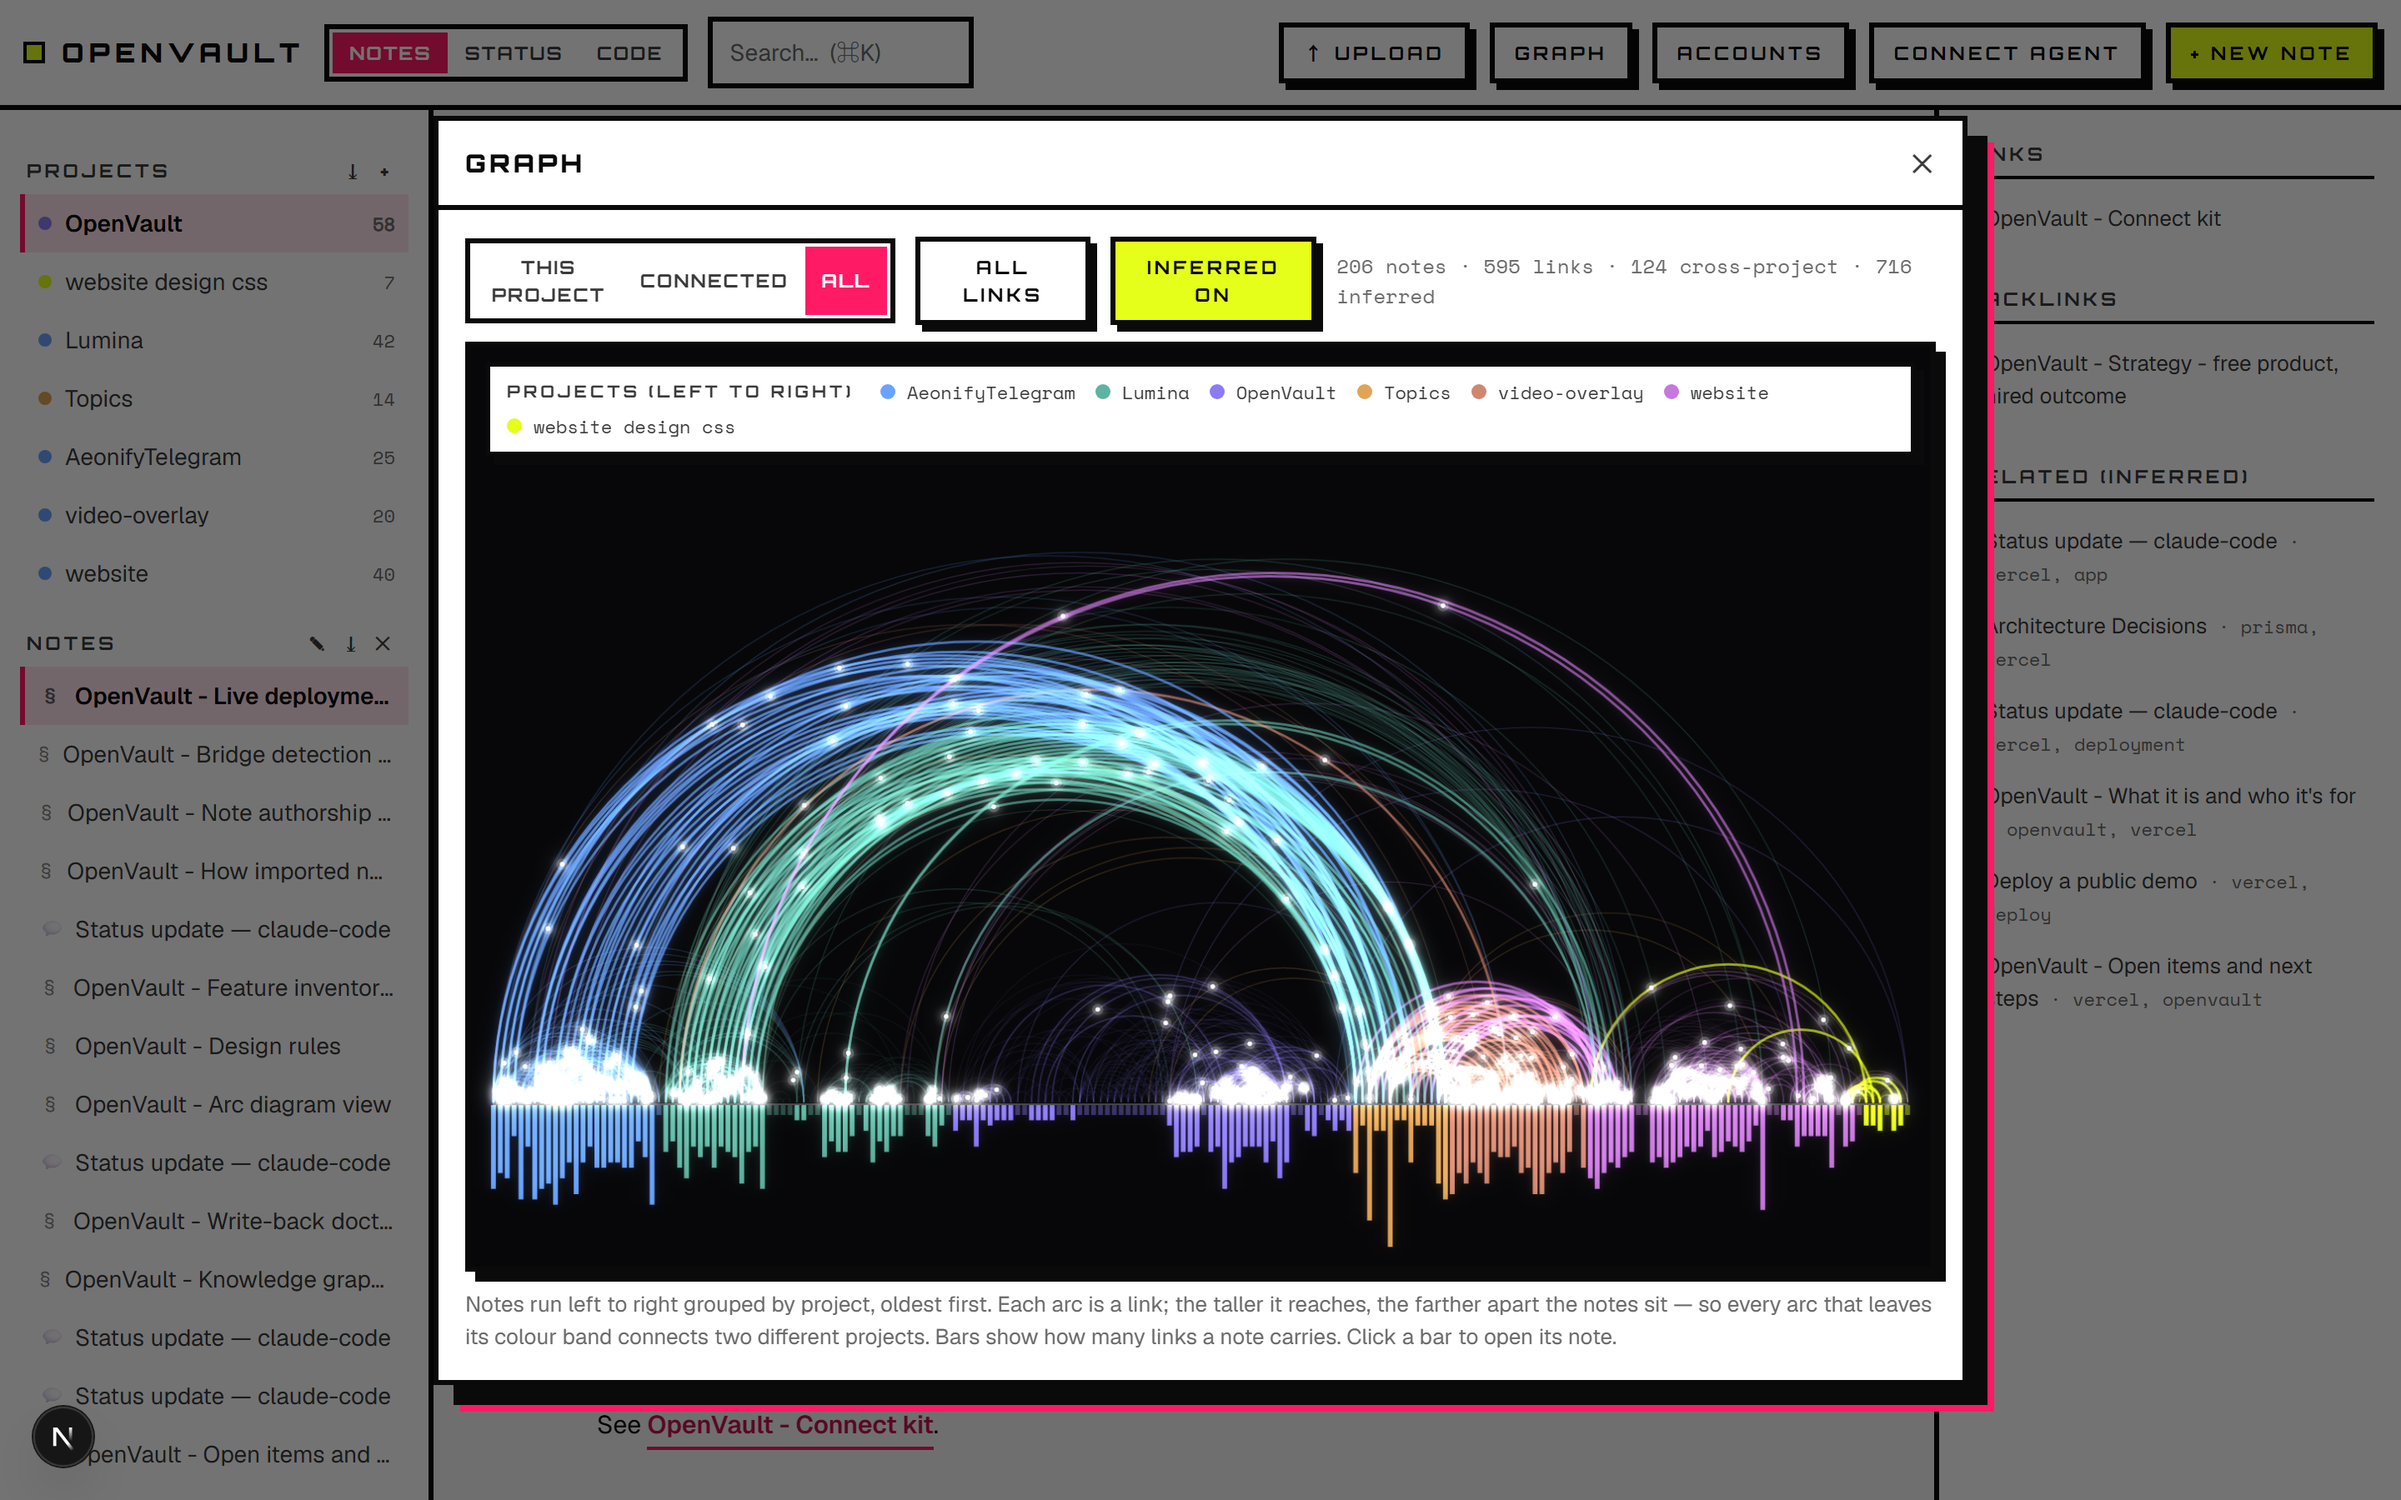
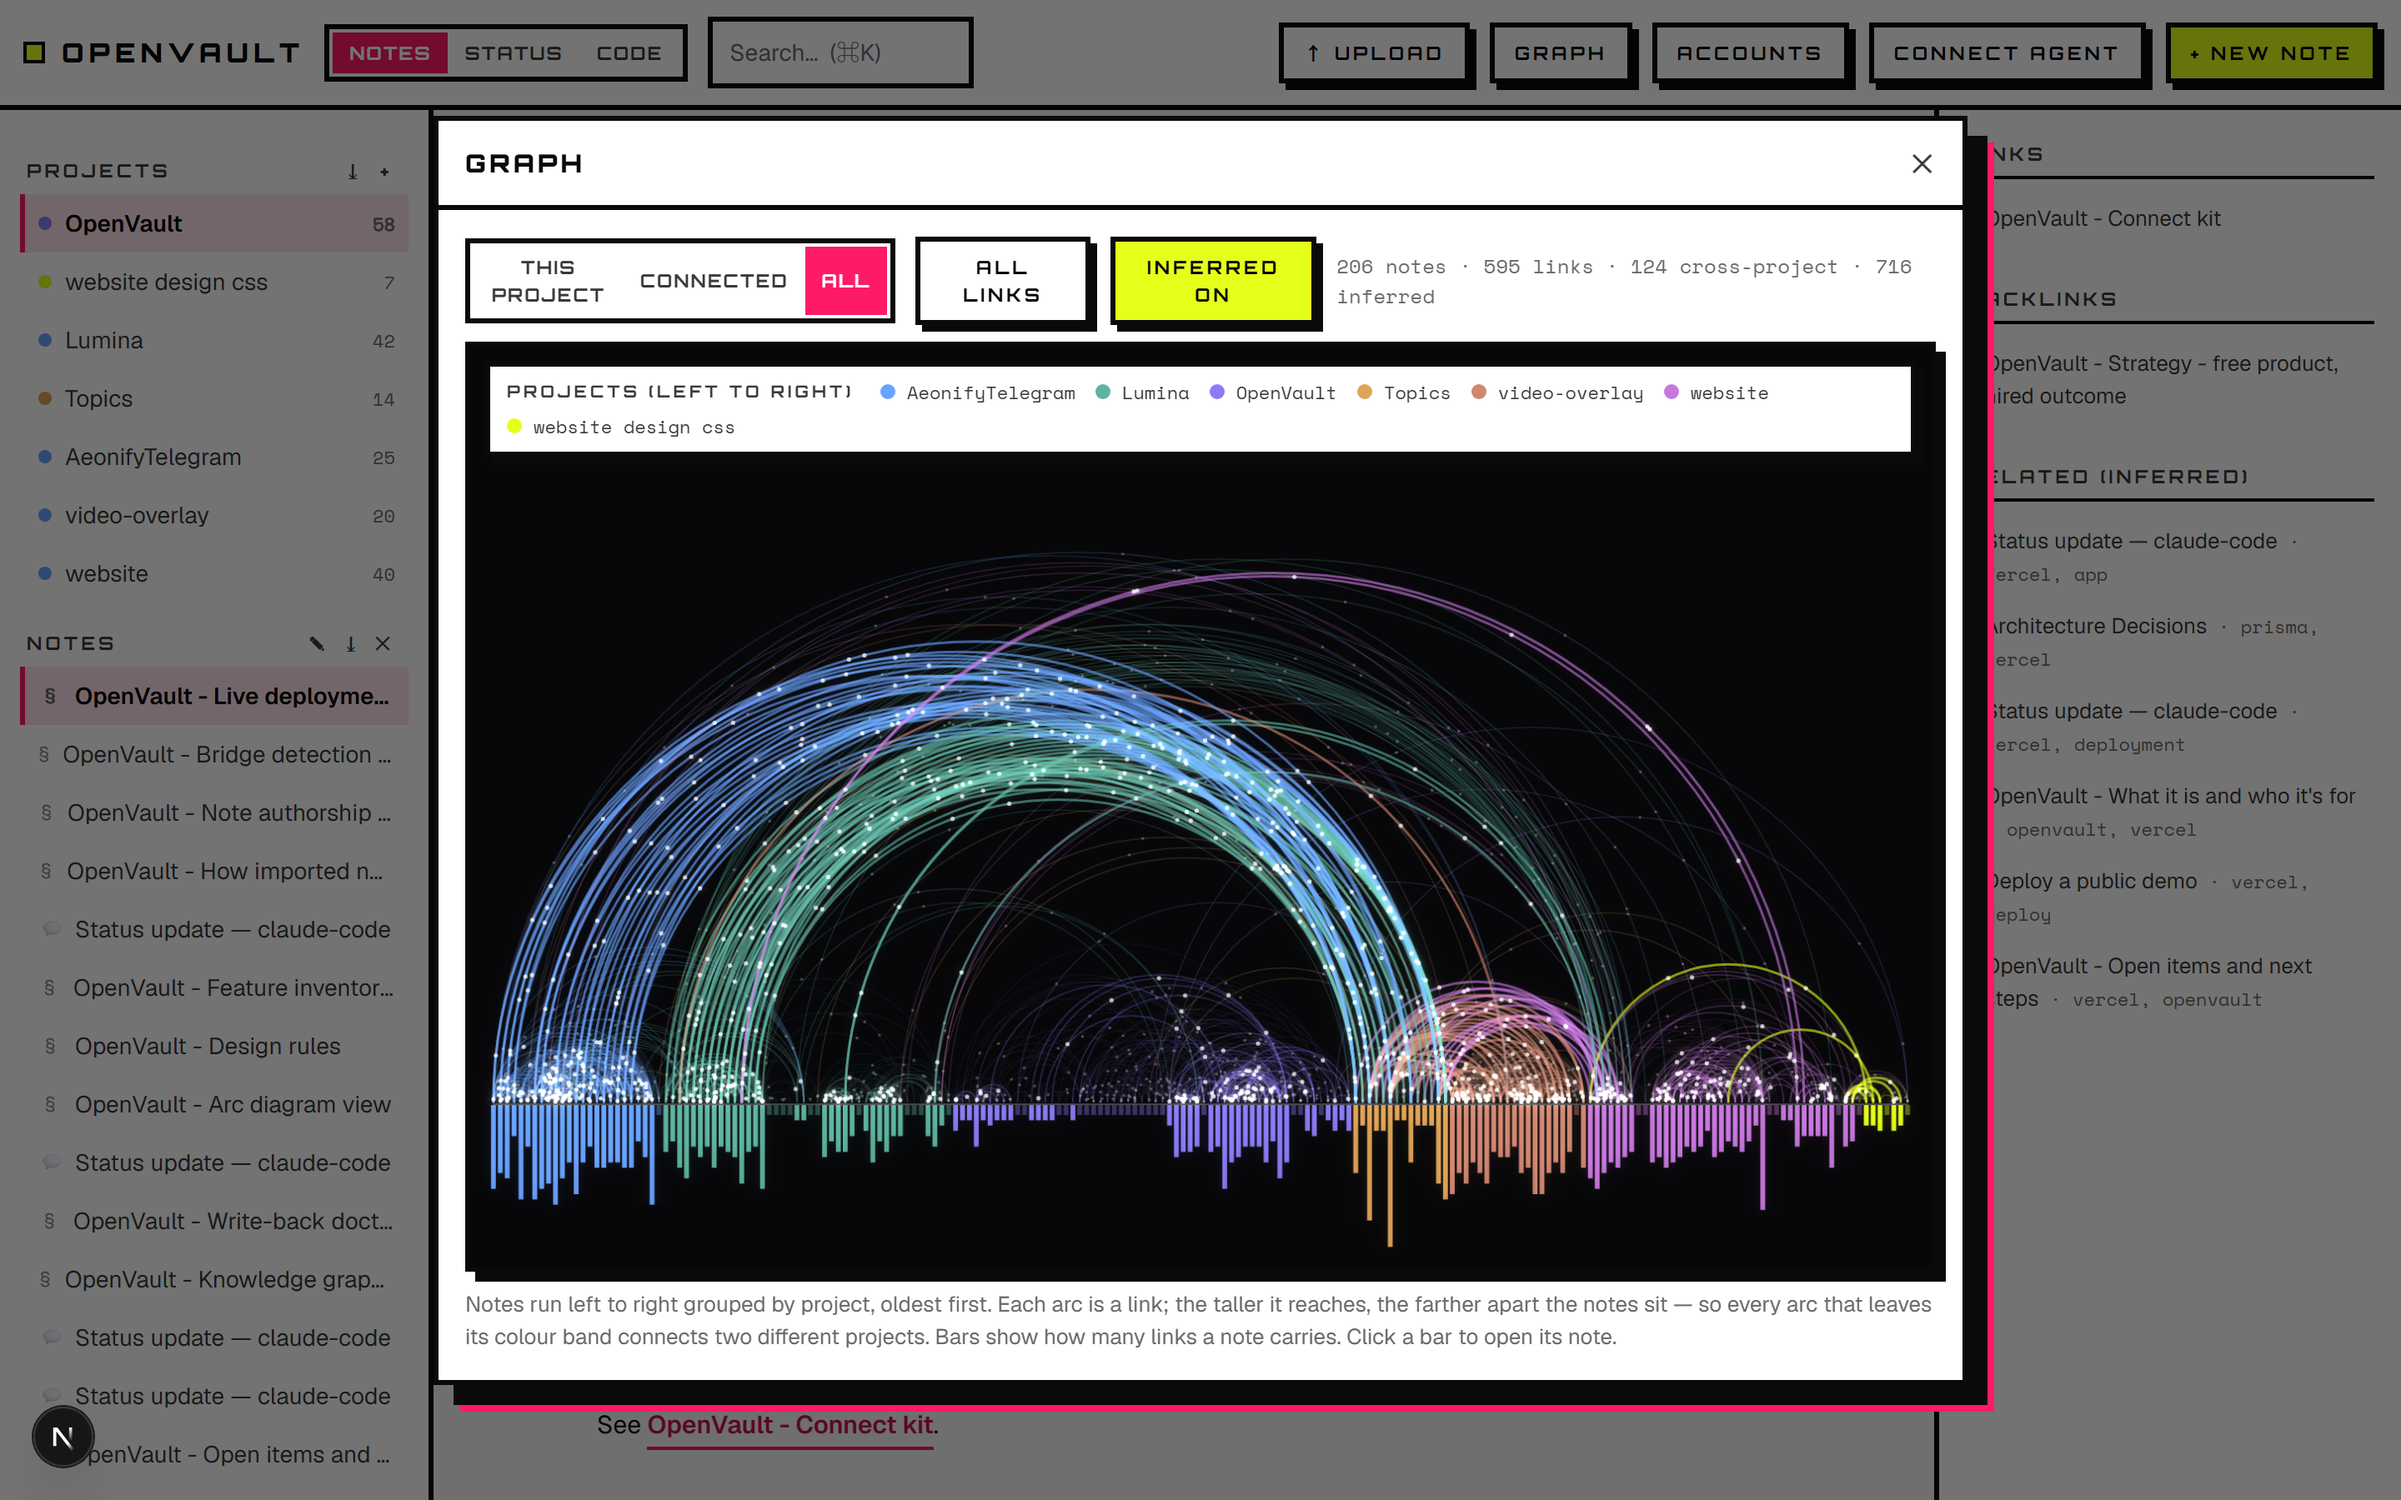
Arc view: calmer glow, denser two-way traffic, and packets on weak links too
The bloom was doing too much of the talking. Arc glow drops to 0.42 alpha at
1.8x width, the composite passes fall to 0.34 and 0.20, and the dots lose
their mid halo entirely -- one crisp 1.3px core, with the bloom pass supplying
all the softness. The filaments read as lit wire now instead of haze.

Dots are spaced along each arc rather than one per link, so a long cross-
project sweep carries a stream and a short hop carries a single packet:
uniform visual density instead of uniform count. Direction alternates per dot,
which buys two-way traffic without doubling the dot count. A link between two
notes is not one-way -- each end cites the other -- and a single direction read
as a conveyor belt rather than a conversation.

Inferred links carry traffic now as well, deliberately weaker in every
dimension: sparser spacing, a lower cap, 40% brightness, a smaller core, a
slower clock, and no halo at all. "These two notes share vocabulary" is a
weaker claim than "this note cites that one", and the animation should say so
rather than flattening the two into one channel. Withholding the halo is also
what keeps ~700 extra arcs from costing a second glow pass.

Measured rather than assumed, since 1,311 animated arcs is real per-frame fill
work: 54fps on the full vault at "All" scope, in headless Chrome with
--disable-gpu, so software rasterisation. Hardware will do better.

Changed region(s): [[0.1875, 0.4356, 0.8125, 0.7467]]

diff --git a/src/components/ArcView.tsx b/src/components/ArcView.tsx
@@ -195,10 +195,15 @@ export default function ArcView({
   // arcs are drawn as the upper half of an ellipse, so the parameter is an
   // angle from PI to 2PI; travelling source-to-target means running it
   // backwards when the source sits to the right of the target.
-  const pointOn = (a: Arc, u: number, baseY: number, squash: number) => {
+  // `back` sends the packet the other way down the same wire. Traffic runs in
+  // both directions because a link between two notes is not one-way — each end
+  // cites the other — and a single direction read as a conveyor belt rather
+  // than a conversation.
+  const pointOn = (a: Arc, u: number, baseY: number, squash: number, back: boolean) => {
     const cx = (a.x1 + a.x2) / 2;
     const rx = a.span / 2;
-    const forward = a.x1 <= a.x2 ? u : 1 - u;
+    const along = back ? 1 - u : u;
+    const forward = a.x1 <= a.x2 ? along : 1 - along;
     const ang = Math.PI + forward * Math.PI;
     return { x: cx + rx * Math.cos(ang), y: baseY + rx * squash * Math.sin(ang) };
   };
@@ -261,7 +266,7 @@ export default function ArcView({
       ctx.lineCap = "round";
 
       // Pass 1 — geometry, drawn into both the crisp layer and the glow buffer.
-      const dots: Array<{ x: number; y: number; hot: number }> = [];
+      const dots: Array<{ x: number; y: number; hot: number; weak: boolean }> = [];
       sc.arcs.forEach((e, i) => {
         const rx = e.span / 2;
         if (rx < 0.5) return;
@@ -294,18 +299,31 @@ export default function ArcView({
         if (gctx && e.kind === "explicit") {
           // Fatter and brighter in the glow buffer: the blur is what turns
           // this into diffusion rather than a second, thicker line.
-          gctx.strokeStyle = `rgba(${r},${g},${b},${Math.min(1, alpha * 0.8 * lit)})`;
-          gctx.lineWidth = width * (focus ? 3.6 : 2.6);
+          gctx.strokeStyle = `rgba(${r},${g},${b},${Math.min(1, alpha * 0.42 * lit)})`;
+          gctx.lineWidth = width * (focus ? 2.4 : 1.8);
           arcPath(gctx);
         }
 
         // The travelling dot: a note handing something to the note it links to.
         // Inferred arcs stay quiet — they are a suggestion, not traffic — and
         // staggering by the golden ratio keeps the dots from marching in step.
-        if (still || e.kind === "inferred") return;
-        const u = (now / TRAVEL + ((i * 0.6180339887) % 1)) % 1;
-        const p = pointOn(e, u, sc.baseY, sc.squash);
-        dots.push({ x: p.x, y: p.y, hot: focus ? 1 : 0.75 });
+        if (still) return;
+        // Inferred links carry traffic too, but thinner and fainter: they are
+        // "these two notes share vocabulary", a weaker claim than "this note
+        // cites that one", and the animation should say so. Sparser spacing
+        // and a lower cap keep the weaker channel visually subordinate — and
+        // keep the frame budget sane, since inferred arcs outnumber explicit
+        // ones here (716 to 595).
+        const weak = e.kind === "inferred";
+        const arcLen = 1.6 * (rx + rx * sc.squash);
+        const count = Math.max(1, Math.min(weak ? 3 : 6, Math.round(arcLen / (weak ? 190 : 105))));
+        for (let k = 0; k < count; k++) {
+          const u = (now / TRAVEL * (weak ? 0.7 : 1) + ((i * 0.6180339887) % 1) + k / count) % 1;
+          // Alternate direction per dot: two-way traffic for free, rather than
+          // doubling the dot count to get a second stream.
+          const p = pointOn(e, u, sc.baseY, sc.squash, k % 2 === 1);
+          dots.push({ x: p.x, y: p.y, hot: (focus ? 1 : 0.75) * (weak ? 0.4 : 1), weak });
+        }
       });
 
       // Bars, also lit.
@@ -331,22 +349,22 @@ export default function ArcView({
 
       // Dots last so their light sits on top of every arc.
       for (const p of dots) {
-        if (gctx) {
-          // Dots keep more of their glow than the arcs do: they are the moving
-          // element, there are far fewer of them lit at once, and their halo is
-          // what sells "a packet of light travelling the wire".
-          gctx.fillStyle = `rgba(255,255,255,${0.9 * p.hot * Math.max(0.45, lit)})`;
+        // Weak-link packets get no halo at all — only explicit traffic is lit.
+        // That is both the honest signal (a lit wire means a real citation)
+        // and what keeps ~700 inferred arcs from costing a second glow pass.
+        if (gctx && !p.weak) {
+          // A small, tight halo. With several dots per arc a wide one merges
+          // its neighbours into a glowing rope, which loses the very thing the
+          // dots are for — the sense of discrete packets in motion.
+          gctx.fillStyle = `rgba(255,255,255,${0.5 * p.hot * Math.max(0.5, lit)})`;
           gctx.beginPath();
-          gctx.arc(p.x, p.y, 5, 0, Math.PI * 2);
+          gctx.arc(p.x, p.y, 2.6, 0, Math.PI * 2);
           gctx.fill();
         }
-        ctx.fillStyle = `rgba(255,255,255,${0.22 * p.hot})`;
+        // One crisp core, no mid halo: the bloom pass supplies the softness.
+        ctx.fillStyle = `rgba(255,255,255,${0.92 * p.hot})`;
         ctx.beginPath();
-        ctx.arc(p.x, p.y, 3.4, 0, Math.PI * 2);
-        ctx.fill();
-        ctx.fillStyle = `rgba(255,255,255,${p.hot})`;
-        ctx.beginPath();
-        ctx.arc(p.x, p.y, 1.4, 0, Math.PI * 2);
+        ctx.arc(p.x, p.y, p.weak ? 0.9 : 1.3, 0, Math.PI * 2);
         ctx.fill();
       }
 
@@ -356,10 +374,10 @@ export default function ArcView({
         ctx.save();
         ctx.globalCompositeOperation = "lighter";
         ctx.filter = "blur(3px)";
-        ctx.globalAlpha = 0.55;
+        ctx.globalAlpha = 0.34;
         ctx.drawImage(glowBuf, 0, 0, sc.W, sc.H);
-        ctx.filter = "blur(13px)";
-        ctx.globalAlpha = 0.4;
+        ctx.filter = "blur(12px)";
+        ctx.globalAlpha = 0.2;
         ctx.drawImage(glowBuf, 0, 0, sc.W, sc.H);
         ctx.restore();
       }
